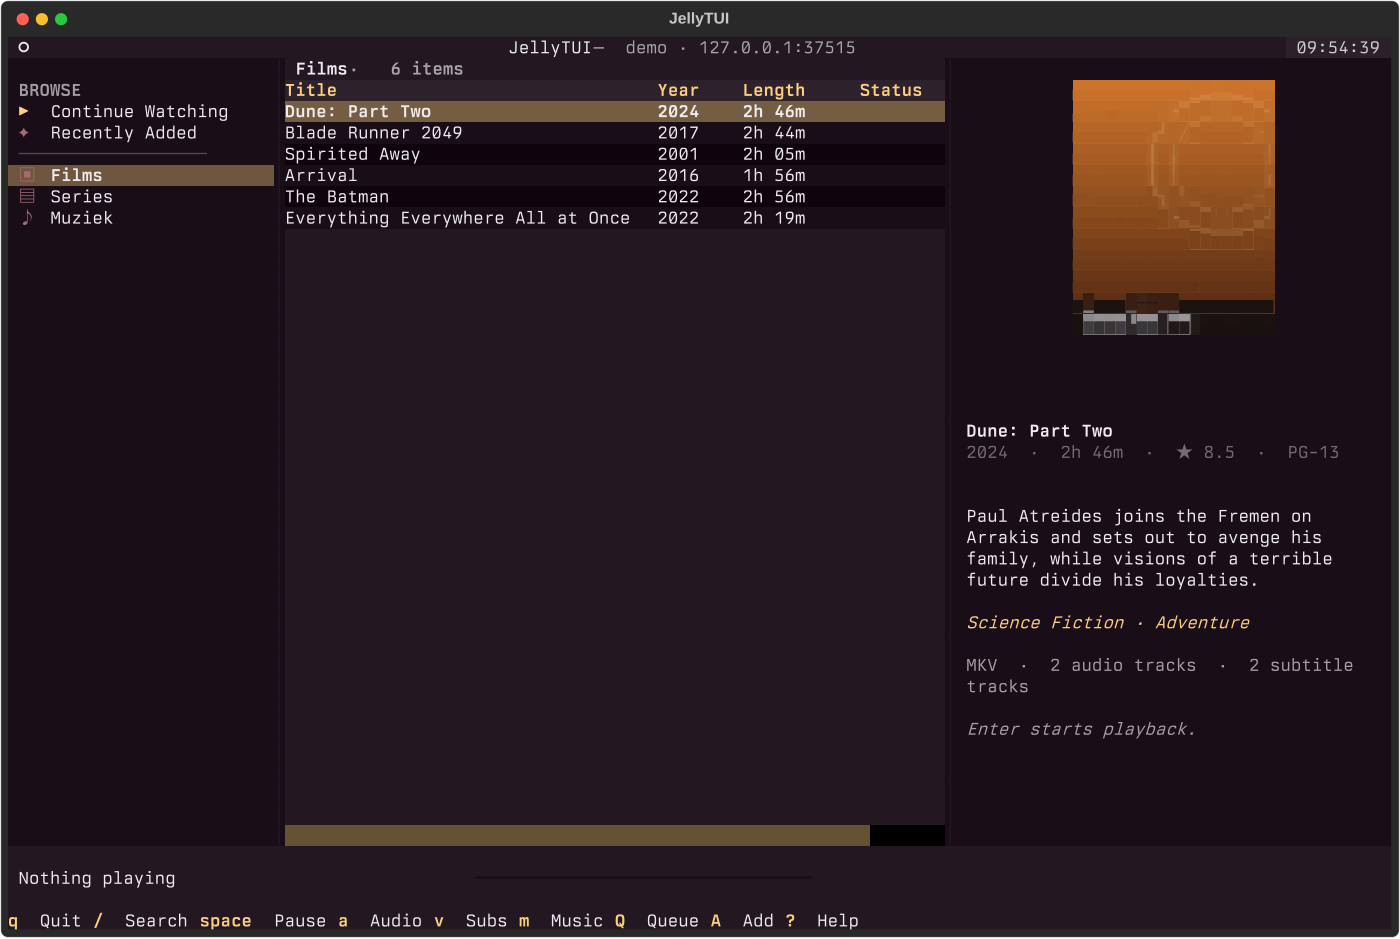
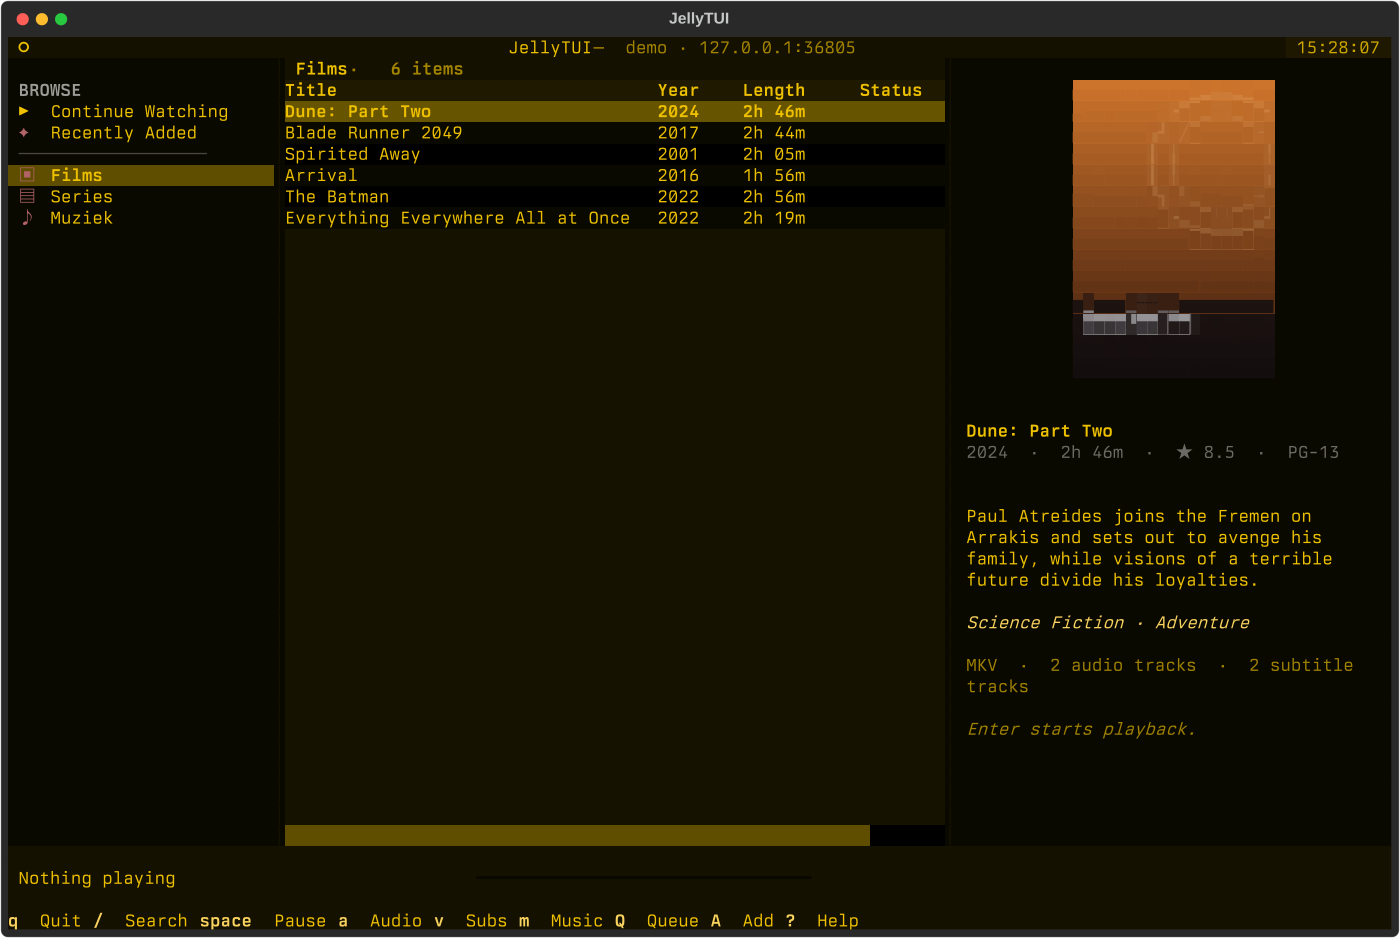
Keep artwork thumbnails at the correct aspect ratio
- Size the chafa poster widget to the rendered poster height instead of a fixed 12 rows
- Add a regression assertion for the poster height
- Regenerate README screenshots

diff --git a/tests/test_ui.py b/tests/test_ui.py
@@ -68,6 +68,8 @@ async def test_browse_search_and_modals(fake_server, tmp_path):
         assert screen.location is not None and screen.location.kind == "resume"
         assert "2 items" in str(screen.query_one("#breadcrumb", Static).render())
         assert "The Matrix" in str(screen.query_one("#details-title", Static).render())
+        poster_art = screen.query_one("#poster-art", Static)
+        assert poster_art.styles.height.value == screen._poster_height()
 
         libraries = screen.query_one("#libraries", OptionList)
         assert libraries.option_count == 6  # resume, latest, separator, 3 views

diff --git a/jellytui/ui/main.py b/jellytui/ui/main.py
@@ -253,8 +253,10 @@ class MainScreen(Screen):
         poster_height = self._poster_height()
         poster = self.query_one("#poster")
         poster_box = self.query_one("#poster-box")
+        poster_art = self.query_one("#poster-art")
         poster.styles.height = poster_height
         poster_box.styles.height = poster_height
+        poster_art.styles.height = poster_height
         size = (38, poster_height)
         if (
             self._details_visible
